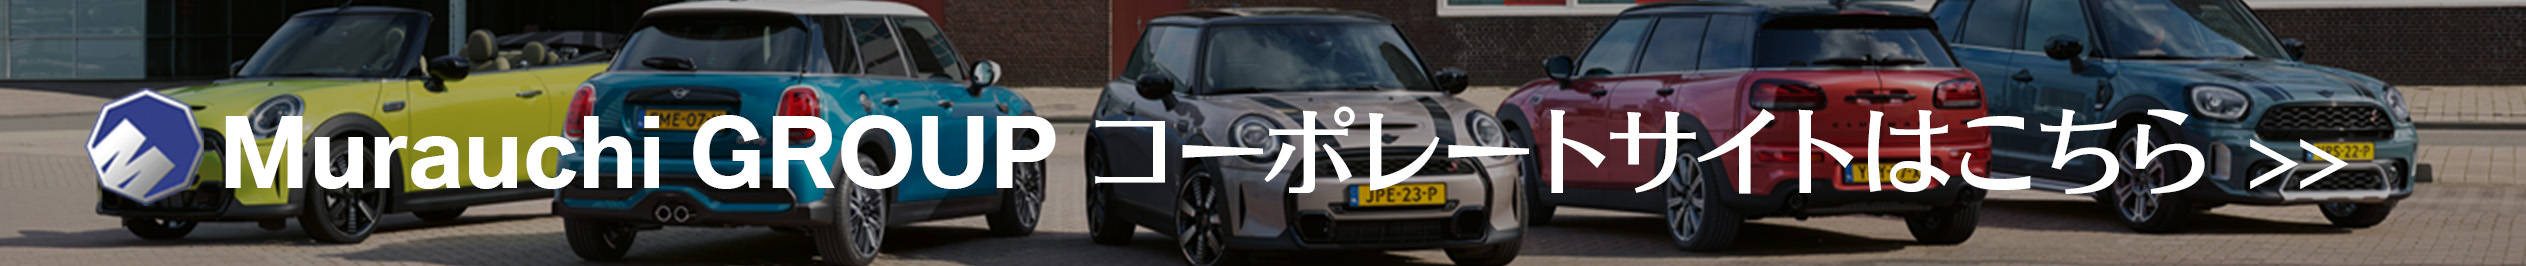
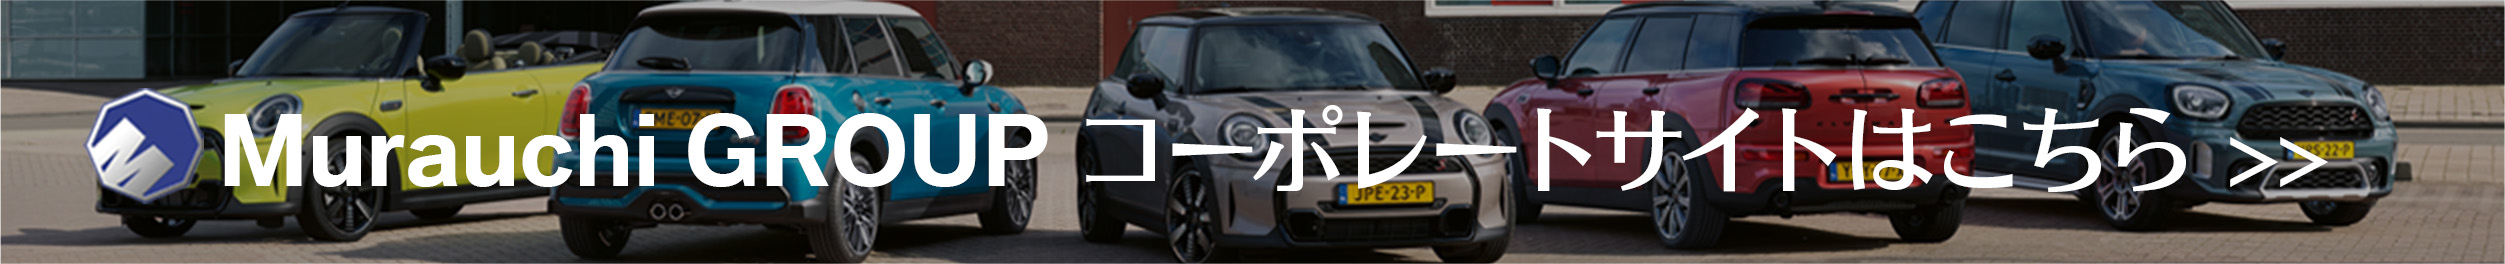
no message

diff --git a/mini32/index.html b/mini32/index.html
@@ -12,10 +12,10 @@ j=d.createElement(s),dl=l!='dataLayer'?'&l='+l:'';j.async=true;j.src=
 <meta charset="UTF-8">
 <meta http-equiv="X-UA-Compatible" content="IE=edge,chrome=1">
 <meta name="viewport" content="width=device-width,initial-scale=1.0">
-<meta name="keywords" content="MINI BLACK FRIDAY SALE,Murauchi Group,MINI 八王子,mini 八王子,八王子,MINI 府中,mini 府中,府中,MINI 相模原,mini 相模原,相模原,MINI,mini,ミニ,正規ディーラー,新車">
-<meta name="description" content="MINI BLACK FRIDAY SALE | Murauchi Group | MINI 正規ディーラー公式HP。オンライン見積もりキャンペーンをお知らせ。">
+<meta name="keywords" content="THE NEW MINI COUNTRYMAN. THE NEW MINI COOPER. 在庫車限定 スペシャルプライス！,Murauchi Group,MINI 八王子,mini 八王子,八王子,MINI 府中,mini 府中,府中,MINI 相模原,mini 相模原,相模原,MINI,mini,ミニ,正規ディーラー,新車">
+<meta name="description" content="THE NEW MINI COUNTRYMAN. THE NEW MINI COOPER. 在庫車限定 スペシャルプライス！ | Murauchi Group | MINI 正規ディーラー公式HP。オンライン見積もりキャンペーンをお知らせ。">
     
-<title>MINI BLACK FRIDAY SALE | Murauchi Group | MINI 正規ディーラー</title>
+<title>THE NEW MINI COUNTRYMAN. THE NEW MINI COOPER. 在庫車限定 スペシャルプライス！ | Murauchi Group | MINI 正規ディーラー</title>
 
 <link rel="stylesheet" media="all" href="./static/css/style.css">
 <link rel="stylesheet" media="all" href="./static/css/slick.css">
@@ -24,7 +24,7 @@ j=d.createElement(s),dl=l!='dataLayer'?'&l='+l:'';j.async=true;j.src=
 <link rel="preconnect" href="https://fonts.gstatic.com">
 <link href="https://fonts.googleapis.com/css2?family=Noto+Sans+JP:wght@300&display=swap"; rel="stylesheet">
 <link rel="icon" href="./static/images/top/favicon.ico">
-<link rel="canonical" href="https://murauchigroup.ne.jp/lp/mini27/">
+<link rel="canonical" href="https://murauchigroup.ne.jp/lp/mini32/">
 <script src="https://code.jquery.com/jquery-3.2.1.min.js"></script>
 <script src="./static/js/script.js"></script>
 <script src="./static/js/slick.js"></script>
@@ -42,6 +42,7 @@ j=d.createElement(s),dl=l!='dataLayer'?'&l='+l:'';j.async=true;j.src=
 </head>
 
 <body>
+<script type="text/javascript" src="//tm.r-ad.ne.jp/118/ra075094000.js" charset="utf-8"></script>
 <!-- Google Tag Manager (noscript)  for Murauchi-group-->
 <noscript><iframe src="https://www.googletagmanager.com/ns.html?id=GTM-TMTPHM8"
 height="0" width="0" style="display:none;visibility:hidden"></iframe></noscript>
@@ -59,9 +60,10 @@ height="0" width="0" style="display:none;visibility:hidden"></iframe></noscript>
     
     <div class="main-contents">
       <div class="image mv02">
-        <img src="./static/images/top/mv02.jpg" class="pc">
-        <img src="./static/images/top/mv02-sp.jpg" class="sp">
+        <img src="./static/images/top/mv01.jpg" class="pc">
+        <img src="./static/images/top/mv01-sp.jpg" class="sp">
       </div>
+<!--
       <section class="intro clearfix js-scroll">
         <div class="wrap">
           <p class="text01">BLACK FRIDAY SALE.</p>
@@ -85,20 +87,24 @@ height="0" width="0" style="display:none;visibility:hidden"></iframe></noscript>
             </div>
           </div>
           <p class="mini">※期間中、本ページより事前にエントリーのうえご成約かつ、11月末までにご登録完了いただけるお客様に限ります。<br>※ご成約後のエントリーはキャンペーン適用外です。<br>※商品の在庫状況などにより、予告なく商品を変更する場合がございます。</p>
-        </div><!-- wrap -->
-      </section><!-- intro -->
+        </div>
+      </section>
+--><!-- intro -->
         
 
         
+<!--
       <section class="sections entry clearfix js-scroll">
         <p class="text">エントリーだけでもOK！<br>まずは簡単30秒無料お申込みを！</p>
         <div class="button button01 clearfix">
-          <a href="https://dms-cp.com/form/murauchi/mini_2311" target="_blank">今すぐエントリーする　→</a>
+          <a href="" target="_blank">今すぐエントリーする　→</a>
         </div>
-      </section><!-- entry -->
+      </section>
+--><!-- entry -->
         
         
         
+<!--
       <section class="sections recommend clearfix js-scroll">
         <div class="wrap">
           <p class="text01"><span>年内最後のビッグチャンス！</span><br>BLACK FRIDAY <br class="sp">特別価格をご案内！</p>
@@ -111,9 +117,9 @@ height="0" width="0" style="display:none;visibility:hidden"></iframe></noscript>
               <img src="./static/images/top/recommend01-sp.png" alt="" class="sp">
             </div>
             <div class="button button01 clearfix">
-              <a href="https://dms-cp.com/form/murauchi/mini_2311b" target="_blank">お問い合わせはこちら　→</a>
+              <a href="" target="_blank">お問い合わせはこちら　→</a>
             </div>
-          </div><!-- car-list -->
+          </div>
           <div class="car-list list02">
             <p class="model">MINI CLUBMAN.</p>
             <p class="info">まもなく生産終了。ご検討中の方はお早めにお問い合わせください。</p>
@@ -122,9 +128,9 @@ height="0" width="0" style="display:none;visibility:hidden"></iframe></noscript>
               <img src="./static/images/top/recommend02-sp.png" alt="" class="sp">
             </div>
             <div class="button button01 clearfix">
-              <a href="https://dms-cp.com/form/murauchi/mini_2311b" target="_blank">お問い合わせはこちら　→</a>
+              <a href="" target="_blank">お問い合わせはこちら　→</a>
             </div>
-          </div><!-- car-list -->
+          </div>
           <div class="car-list list03">
             <p class="model">MINI 5 DOOR.</p>
             <p class="info">　</p>
@@ -133,9 +139,9 @@ height="0" width="0" style="display:none;visibility:hidden"></iframe></noscript>
               <img src="./static/images/top/recommend03-sp.png" alt="" class="sp">
             </div>
             <div class="button button01 clearfix">
-              <a href="https://dms-cp.com/form/murauchi/mini_2311b" target="_blank">お問い合わせはこちら　→</a>
+              <a href="" target="_blank">お問い合わせはこちら　→</a>
             </div>
-          </div><!-- car-list -->
+          </div>
           <div class="car-list list04">
             <p class="model">MINI 3 DOOR.</p>
             <p class="info">　</p>
@@ -144,9 +150,9 @@ height="0" width="0" style="display:none;visibility:hidden"></iframe></noscript>
               <img src="./static/images/top/recommend04-sp.png" alt="" class="sp">
             </div>
             <div class="button button01 clearfix">
-              <a href="https://dms-cp.com/form/murauchi/mini_2311b" target="_blank">お問い合わせはこちら　→</a>
+              <a href="" target="_blank">お問い合わせはこちら　→</a>
             </div>
-          </div><!-- car-list -->
+          </div>
           <div class="car-list list05">
             <p class="model">MINI CONVERTIBLE.</p>
             <p class="info">　</p>
@@ -155,18 +161,20 @@ height="0" width="0" style="display:none;visibility:hidden"></iframe></noscript>
               <img src="./static/images/top/recommend05-sp.png" alt="" class="sp">
             </div>
             <div class="button button01 clearfix">
-              <a href="https://dms-cp.com/form/murauchi/mini_2311b" target="_blank">お問い合わせはこちら　→</a>
+              <a href="" target="_blank">お問い合わせはこちら　→</a>
             </div>
-          </div><!-- car-list -->
+          </div>
           <p class="mini">※写真はイメージです。※在庫車情報は2023年10月20日現在となります。※お問い合わせ時に売約済みとなっている可能性がございます。あらかじめご了承ください。</p>
-        </div><!-- wrap -->
-      </section><!-- recommend -->
+        </div>
+      </section>
+-->
+        <!-- recommend -->
 
         
         
       <section class="stores wrap clearfix js-scroll">
           <h2 id="stores">
-            <span class="outer js-target"><span class="inner inner03"><img src="./static/images/top/store-tit.svg" class="pc">
+            <span class="outer js-target"><span class="inner inner02"><img src="./static/images/top/store-tit.svg" class="pc">
             <img src="./static/images/top/store-tit-sp.png" class="sp"></span></span>
           </h2>
         <ul class="store-list clearfix js-scroll" id="store01">
@@ -249,7 +257,7 @@ height="0" width="0" style="display:none;visibility:hidden"></iframe></noscript>
       </section>
             
             
-      <section class="sns clearfix" id="anc02">
+      <section class="sns clearfix js-scroll">
         <div class="wrap">
           <h2>
             <span class="outer js-target"><span class="inner inner03"><img src="./static/images/top/sns-tit.png" class="pc">
@@ -295,8 +303,9 @@ height="0" width="0" style="display:none;visibility:hidden"></iframe></noscript>
       </div><!-- main-contents -->
     </main>
 
+<!--
     <div class="fixed-banner clearfix">
-      <a href="https://dms-cp.com/form/murauchi/mini_2311" target="_blank">
+      <a href="" target="_blank">
         <div class="image fix-img">
           <img src="./static/images/top/floating-bnr02.png" class="pc">
           <p class="sp">エントリーする</p>
@@ -307,13 +316,14 @@ height="0" width="0" style="display:none;visibility:hidden"></iframe></noscript>
       </span>
     </div>
     <div class="fixed-banner bnr02 clearfix">
-      <a href="https://dms-cp.com/form/murauchi/mini_2311b" target="_blank">
+      <a href="" target="_blank">
         <div class="image fix-img">
           <img src="./static/images/top/floating-bnr.png" class="pc">
           <p class="sp">特別価格を<br>問い合わせる</p>
         </div>
       </a>
     </div>
+-->
       
       
      <a href="#" class="page-top scroll"><img src="./static/images/top/pagetop.svg" alt="page top"></a>

diff --git a/mini32/static/css/style.css b/mini32/static/css/style.css
@@ -586,8 +586,8 @@ h2{
   text-align: left;
   margin-bottom: 30px;
   border-bottom: 1px solid;
-  border-top: 1px solid;
-  padding: 40px 0;
+/*  border-top: 1px solid;*/
+  padding: 100px 0 40px;
 }
 .stores .line-txt{
   font-size: 30px;
@@ -729,7 +729,7 @@ h2{
 @media screen and (max-width:1024px) {
     
   .stores{
-    padding: 0;
+    padding: 50px 0 0;
   }
   .store-list li{
     display: block;
